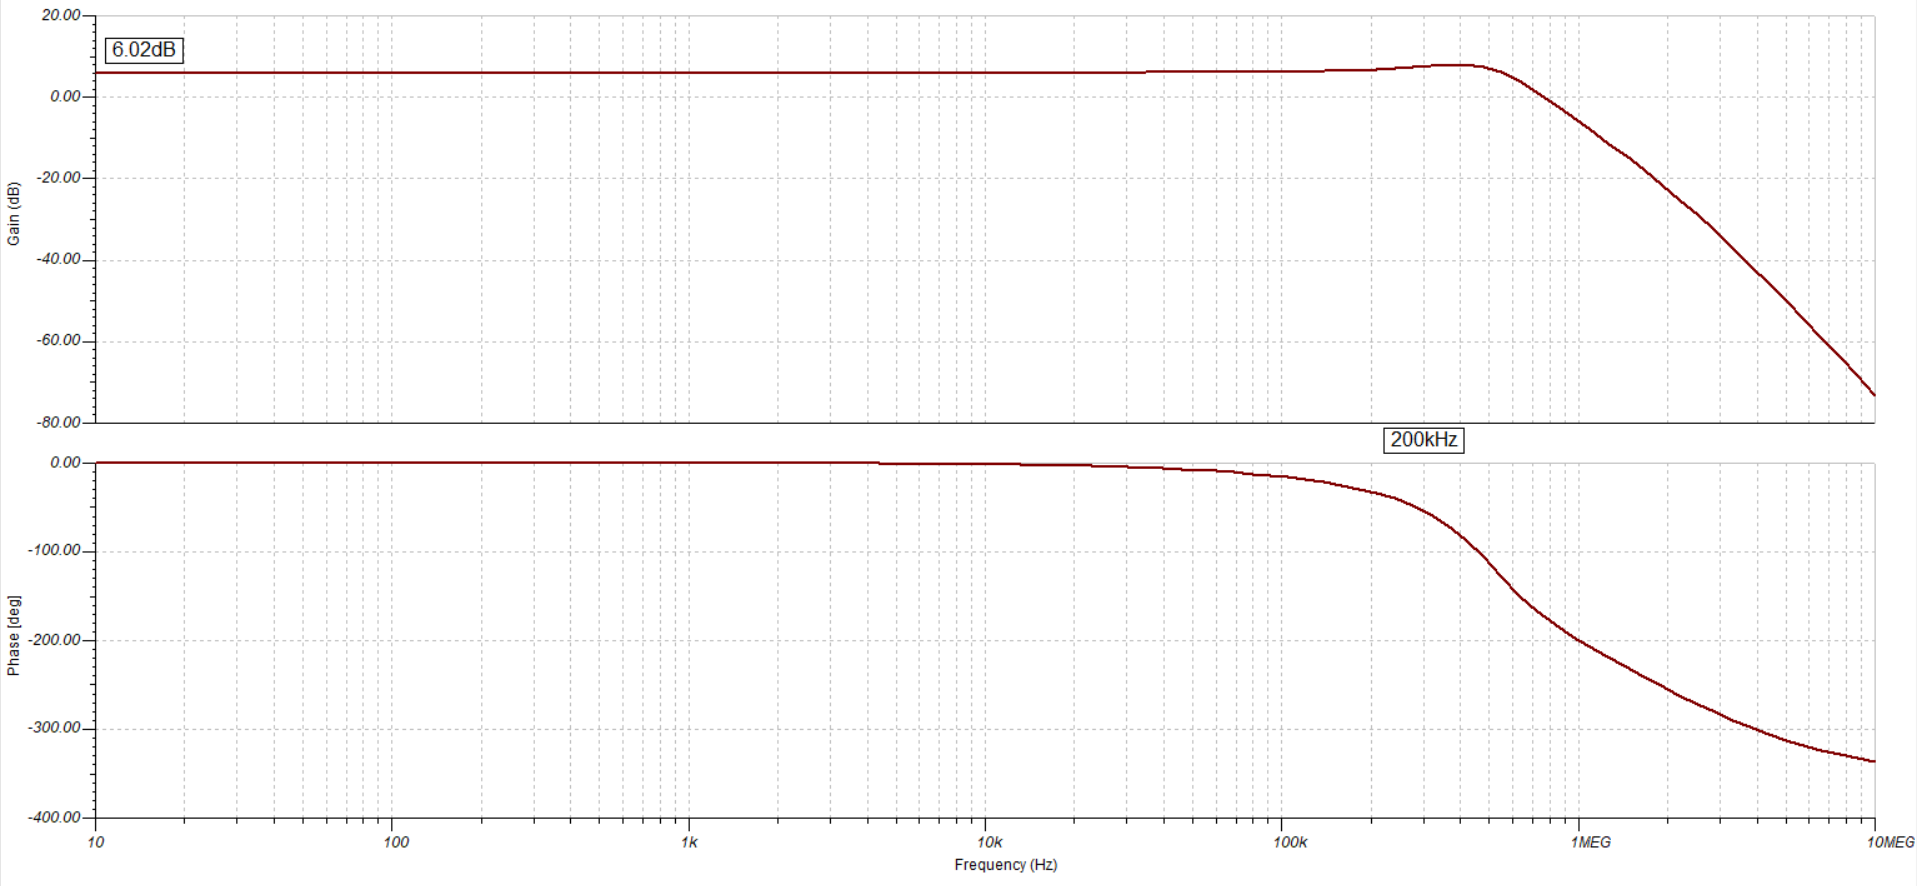
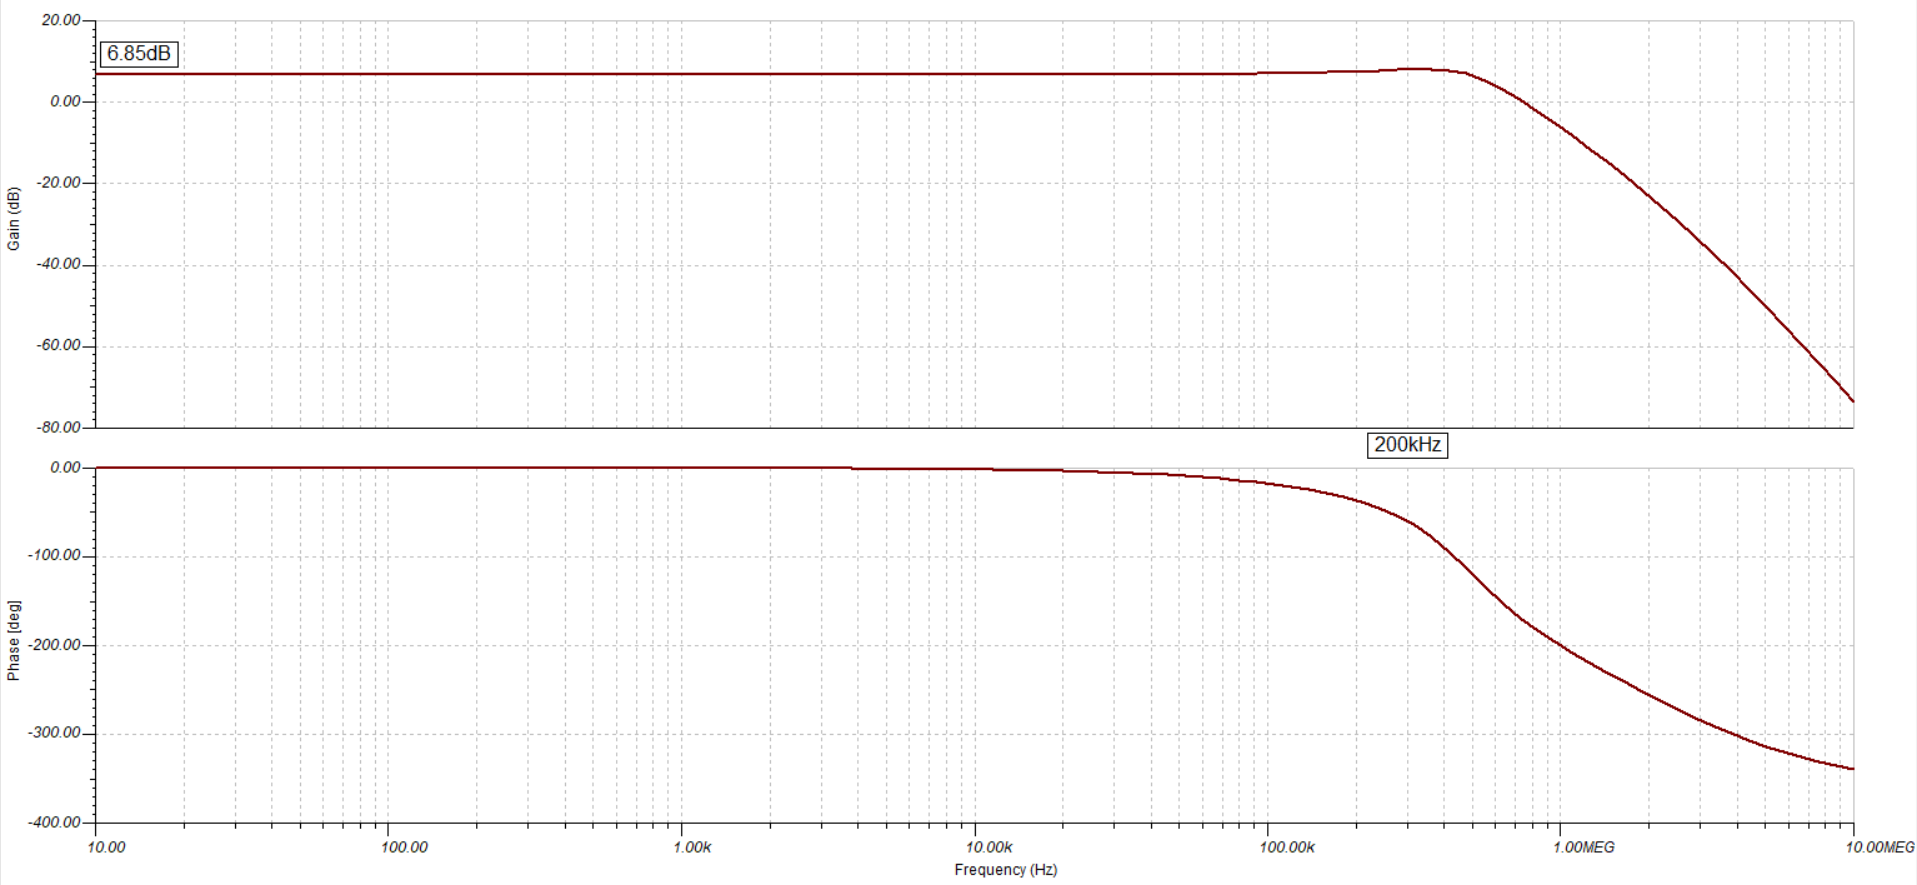
5v to 3.3v

diff --git a/README.md b/README.md
@@ -1,47 +1,48 @@
-# Closed-Loop Linear Voltage Regulator (LDO Topology)
+# 5V to 3.3V Low-Dropout (LDO) Regulator
 
 ## 📌 Project Overview
-This repository contains the design and simulation of a continuous-time $12\text{V}$ to $5\text{V}$ linear voltage regulator. The circuit was designed and validated using **TINA-TI** to demonstrate core analog principles including negative feedback, operational amplifier dynamics, and MOSFET continuous-conduction operation.
+This repository contains the design and simulation of a continuous-time 5V to 3.3V Low-Dropout (LDO) voltage regulator. The circuit was designed and validated using **TINA-TI** to demonstrate core analog power management principles, specifically targeting low-noise sub-system rails where switching converter EMI is unacceptable.
 
 ## ⚙ Architecture & Theory of Operation
 The regulator utilizes an operational amplifier acting as an error amplifier to drive an NMOS pass transistor operating in its saturation region. 
-* **The Feedback Loop:** A $10\text{k}\Omega / 10\text{k}\Omega$ resistive voltage divider samples the output voltage and feeds it back to the inverting (-) terminal of the op-amp.
-* **Error Correction:** The non-inverting (+) terminal is tied to a stable $2.5\text{V}$ DC reference. Utilizing the virtual ground concept, the op-amp dynamically adjusts the NMOS gate voltage (typically pushing it to $\sim8\text{V}$) to maintain equilibrium, forcing the source output to exactly $5\text{V}$.
-* **Steady-State Error:** A minimal $3\text{mV}$ steady-state error was observed ($5.003\text{V}$ output), which accurately reflects the finite open-loop gain limitations of the LM324 op-amp model.
+* **The Feedback Loop:** An 18kΩ / 15kΩ resistive voltage divider samples the output voltage and feeds it back to the inverting (-) terminal of the op-amp.
+* **Error Correction:** The non-inverting (+) terminal is tied to a stable 1.5V DC reference. Utilizing the virtual ground concept, the op-amp dynamically adjusts the NMOS gate voltage to maintain equilibrium, forcing the source output to exactly 3.3V.
+* **Steady-State Error:** A minimal 3mV steady-state error was observed (3.303V output), which accurately reflects the finite open-loop gain limitations of the LM324 op-amp model.
+* **Thermal Efficiency:** By utilizing a tight 1.7V dropout (5V input to 3.3V output), power dissipation across the pass transistor is minimized to safe levels (< 0.2W at 100mA) compared to standard large-dropout linear regulators.
 
 ## 🛠 Component Selection
 * **Error Amplifier:** LM324 Operational Amplifier 
 * **Pass Element:** IRF540 N-Channel Power MOSFET 
-* **Feedback Network:** $10\text{k}\Omega$ / $10\text{k}\Omega$ Resistors
-* **Voltage Reference:** $2.5\text{V}$ DC Source
+* **Feedback Network:** 18kΩ / 15kΩ Standard E24 Resistors
+* **Voltage Reference:** 1.5V DC Source
 
 ---
 
 ## 📊 Simulation Results
 
 ### 1. DC Operating Point & Line Regulation
-The baseline circuit was tested with a static $50\Omega$ load (drawing $100\text{mA}$). A DC voltage sweep was performed on the main supply rail from $5\text{V}$ to $12\text{V}$.
-* **Result:** The control loop successfully rejects supply fluctuations, holding a flat, regulated $5\text{V}$ output across the entire operational range.
+The baseline circuit was tested with a static 33Ω load (drawing ~100mA). A DC voltage sweep was performed on the main supply rail from 3V to 6V.
+* **Result:** The control loop successfully rejects supply fluctuations, holding a flat, regulated 3.3V output across the operational input range once the dropout threshold is met.
 
 ![Base Schematic](Images/Base_Schematic.png)
-*Figure 1: Regulator Schematic with $50\Omega$ Static Load*
+*Figure 1: Regulator Schematic with 33Ω Static Load*
 
 ![DC Sweep Plot](Simulation_Plots/DC_Sweep_Line_Reg.png)
 *Figure 2: DC Transfer Characteristic showing Line Regulation*
 
 ### 2. Transient Response & Load Regulation
-To test the speed and stability of the feedback loop, the static load was replaced with a square-wave Current Generator toggling between $100\text{mA}$ and $500\text{mA}$ at $1\text{kHz}$.
-* **Result:** The system demonstrated robust load regulation, rapidly correcting the voltage droop caused by the sudden current demand. The feedback loop achieved a highly responsive **$\sim2.5 \mu\text{s}$ recovery time** to return to steady-state $5\text{V}$.
+To test the speed and stability of the feedback loop, the static load was replaced with a square-wave Current Generator toggling between 20mA and 100mA at 1kHz.
+* **Result:** The system demonstrated robust load regulation, rapidly correcting the voltage droop caused by the sudden current demand. The feedback loop achieved a highly responsive **~2.5 µs recovery time** to return to steady-state 3.3V.
 
 ![Transient Schematic](Images/Transient_Test_Schematic.png)
 *Figure 3: Regulator Schematic with Square-Wave Current Generator*
 
 ![Transient Plot](Simulation_Plots/Transient_Load_Step.png)
-*Figure 4: Transient Analysis demonstrating $2.5 \mu\text{s}$ recovery time during load steps*
+*Figure 4: Transient Analysis demonstrating 2.5 µs recovery time during load steps*
 
 ### 3. AC Small-Signal Analysis (Bode Plot)
-A closed-loop AC transfer characteristic simulation was run from $10\text{ Hz}$ to $10\text{ MHz}$ to evaluate system stability and bandwidth.
-* **Result:** The low-frequency gain sits precisely at $\approx 6\text{ dB}$, confirming the non-inverting voltage multiplier of $2$. The loop exhibits a flat response up to $\sim 200\text{ kHz}$ bandwidth, with minor frequency peaking near the roll-off frequency, indicating stable but slightly under-damped closed-loop dynamics.
+A closed-loop AC transfer characteristic simulation was run from 10 Hz to 10 MHz to evaluate system stability and bandwidth.
+* **Result:** The low-frequency gain sits precisely at ~6.85 dB, confirming the non-inverting voltage multiplier of 2.2. The loop exhibits a flat response up to ~400 kHz bandwidth, and rolls off smoothly without severe high-frequency peaking, indicating stable closed-loop dynamics with adequate phase margin.
 
 ![Bode Plot](Simulation_Plots/Closed_Loop_Bode_Plot.png)
 *Figure 5: Closed-Loop AC Transfer Characteristic*
